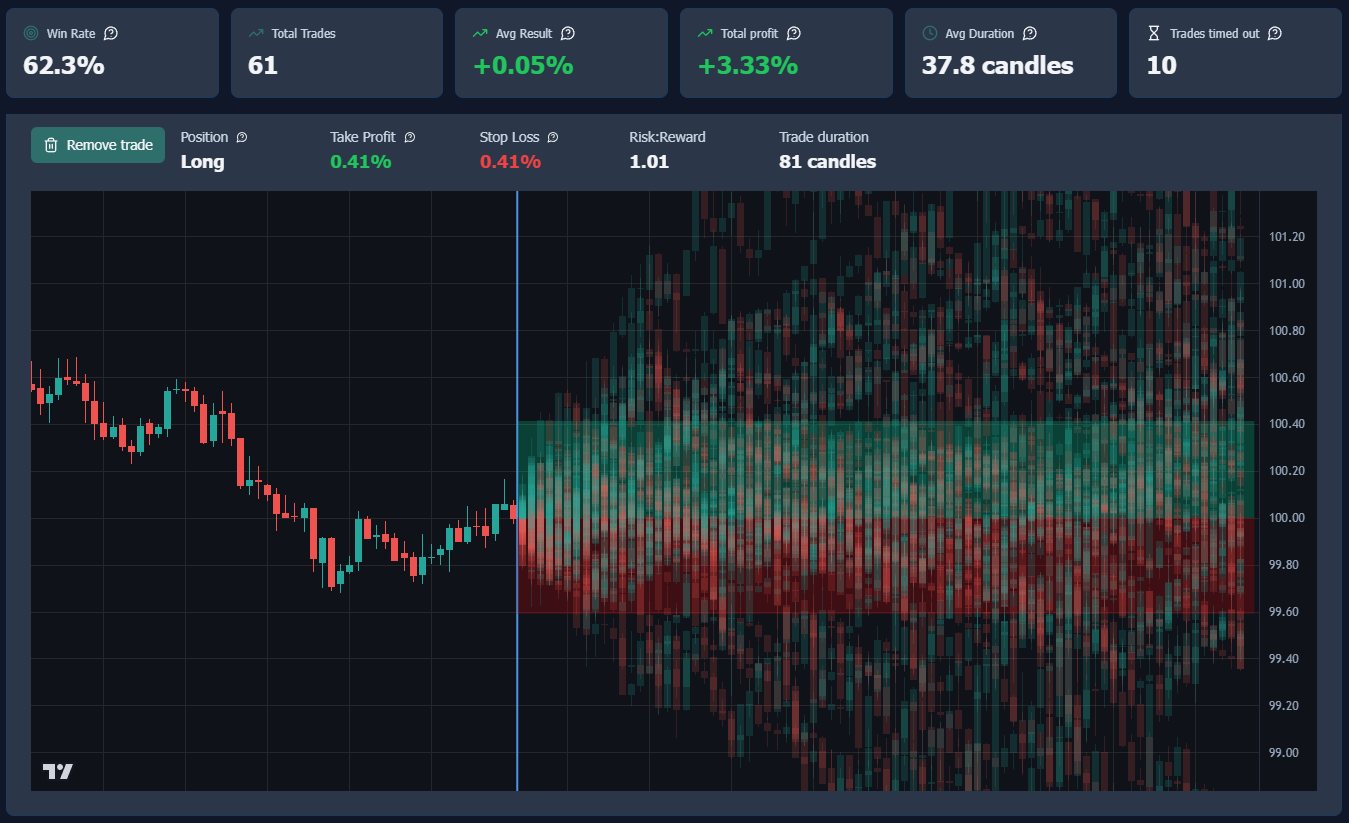
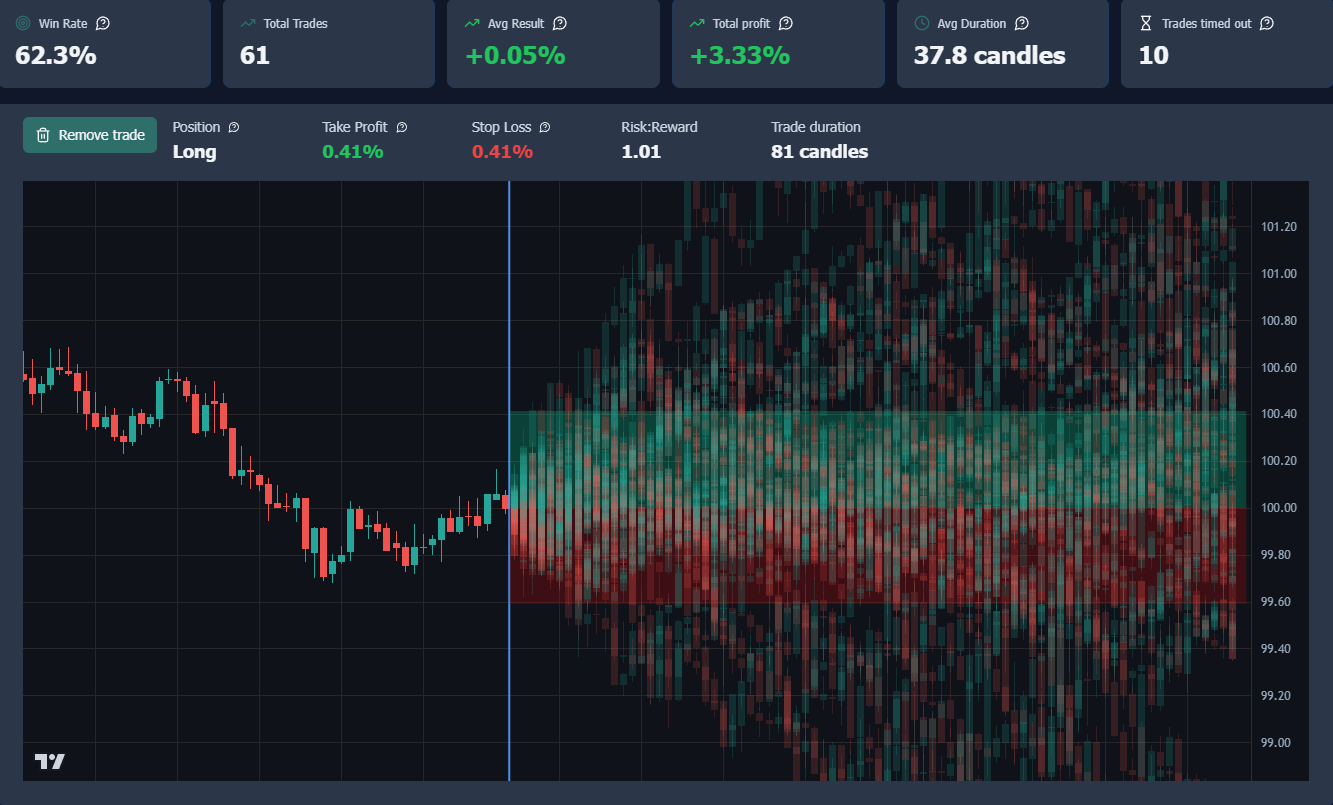
fix waitlist scroll, add animations and fix layouts and colors

Changed region(s): [[0.0, 0.0, 1.0, 1.0], [0.4614, 0.3416, 0.4921, 0.3727]]

diff --git a/src/pages/LaunchingSoon.tsx b/src/pages/LaunchingSoon.tsx
@@ -1,4 +1,4 @@
-import { useState } from "react";
+import { useEffect, useState } from "react";
 import { Button } from "@/components/ui/button";
 import { Input } from "@/components/ui/input";
 import { Checkbox } from "@/components/ui/checkbox";
@@ -79,10 +79,33 @@ const LaunchingSoon = () => {
     document.getElementById(id)?.scrollIntoView({ behavior: "smooth" });
   };
 
+  useEffect(() => {
+    const elements = document.querySelectorAll(".animate-on-scroll");
+
+    console.log("Found elements:", elements.length);
+
+    const observer = new IntersectionObserver(
+      entries => {
+        entries.forEach(entry => {
+          if (entry.isIntersecting) {
+            entry.target.classList.remove("opacity-0", "translate-y-10");
+            entry.target.classList.add("opacity-100", "translate-y-0");
+            observer.unobserve(entry.target);
+          }
+        });
+      },
+      { threshold: 0.2 }
+    );
+
+    elements.forEach(el => observer.observe(el));
+
+    return () => observer.disconnect();
+  }, []);
+
   return (
     <div className="min-h-screen bg-background">
       {/* Header */}
-      <header className="border-b border-border bg-card backdrop-blur-sm sticky top-0 z-50">
+      <header className="border-b border-accent bg-card backdrop-blur-sm sticky top-0 z-50">
         <div className="container mx-auto px-6 py-4 flex items-center justify-between">
           <div className="flex items-center gap-2">
             <div className="rounded-lg" onClick={() => scrollToSection("waitlist")}>
@@ -133,7 +156,8 @@ const LaunchingSoon = () => {
       {/* Hero Section */}
       <section
         id="waitlist"
-        className="relative flex items-center justify-center overflow-hidden py-16"
+        className="relative flex items-center justify-center overflow-hidden py-16 scroll-mt-24"
+        // className="relative flex items-center justify-center overflow-hidden py-16"
       >
         {/* Animated background elements */}
         <div className="absolute inset-0 overflow-hidden">
@@ -154,7 +178,7 @@ const LaunchingSoon = () => {
             {/* Main headline */}
             <h1 className="text-4xl md:text-6xl lg:text-7xl font-bold text-foreground leading-tight">
               Research, backtest and validate trades using{" "}
-              <span className="bg-gradient-primary bg-clip-text text-transparent">
+              <span className="bg-gradient-primary bg-clip-text text-primary">
                 Pattern Similarity Score
               </span>
             </h1>
@@ -209,7 +233,7 @@ const LaunchingSoon = () => {
                         htmlFor="emails"
                         className="text-xs text-muted-foreground cursor-pointer"
                       >
-                      I agree to receive access updates and marketing emails from Stratosphere. By joining the waitlist, you also agree to our Privacy Policy.
+                      I agree to receive access updates and marketing emails from STRATOSPHERE. By joining the waitlist, you also agree to our Privacy Policy.
                       </Label>
                     </div>
                     </div>
@@ -241,7 +265,7 @@ const LaunchingSoon = () => {
             <div className="text-center space-y-6 mb-20">
               <h2 className="text-4xl md:text-5xl lg:text-6xl font-bold text-foreground">
                 Objective, repeatable,<br />
-                <span className="bg-gradient-primary bg-clip-text text-transparent">reliable</span>
+                <span className="bg-gradient-primary bg-clip-text text-primary">reliable</span>
               </h2>
               <p className="text-xl text-muted-foreground max-w-2xl mx-auto">
                 STRATOSPHERE replaces guesswork with historical evidence.
@@ -252,8 +276,16 @@ const LaunchingSoon = () => {
             <div className="grid md:grid-cols-3 gap-12 md:gap-8">
               {/* Step 1 */}
               <div className="space-y-6">
-                <div className="aspect-video border border-primary rounded-xl hover:shadow-glow flex items-center justify-center overflow-hidden">
-                  <img
+                <div
+                //  className="aspect-video border border-primary rounded-xl hover:shadow-glow flex items-center justify-center overflow-hidden">
+                 className="
+                  aspect-video border border-primary rounded-xl hover:shadow-glow
+                  flex items-center justify-center overflow-hidden
+                  transition-all duration-700 delay-600 ease-out
+                  opacity-0 translate-y-10
+                  animate-on-scroll
+                ">  
+                <img
                     src="/features_browse.png"
                     alt="Pattern selection preview"
                     className="w-full h-full object-cover rounded-xl"
@@ -276,7 +308,15 @@ const LaunchingSoon = () => {
 
               {/* Step 2 */}
               <div className="space-y-6">
-                <div className="aspect-video  border border-primary rounded-xl hover:shadow-glow bg-card flex items-center justify-center overflow-hidden">
+                <div 
+                // className="aspect-video  border border-primary rounded-xl hover:shadow-glow bg-card flex items-center justify-center overflow-hidden">
+                    className="
+                  aspect-video border border-primary rounded-xl hover:shadow-glow
+                  flex items-center justify-center overflow-hidden
+                  transition-all duration-700 delay-400 ease-out
+                  opacity-0 translate-y-10
+                  animate-on-scroll
+                ">  
                    <img
                     src="/features_collection.png"
                     alt="Result collection preview"
@@ -300,8 +340,16 @@ const LaunchingSoon = () => {
 
               {/* Step 3 */}
               <div className="space-y-6">
-                <div className="aspect-video bg-card border border-primary rounded-xl hover:shadow-glow flex items-center justify-center overflow-hidden">
-                   <img
+                <div 
+                // className="aspect-video bg-card border border-primary rounded-xl hover:shadow-glow flex items-center justify-center overflow-hidden">
+                 className="
+                  aspect-video border border-primary rounded-xl hover:shadow-glow
+                  flex items-center justify-center overflow-hidden
+                  transition-all duration-700 delay-200 ease-out
+                  opacity-0 translate-y-10
+                  animate-on-scroll
+                ">     
+                <img
                     src="/features_outcomes.png"
                     alt="Outcomes preview"
                     className="h-full object-cover "
@@ -422,7 +470,7 @@ const LaunchingSoon = () => {
                           <div className="flex-1 h-10 bg-bullish/20 rounded-lg flex items-center px-4">
                             <span className="text-sm text-foreground">🚀 Up</span>
                           </div>
-                          <span className="text-sm text-muted-foreground w-12">52%</span>
+                          <span className="text-sm text-muted-foreground w-10">52%</span>
                         </div>
                         <div className="flex items-center gap-3">
                           <div className="flex-1 h-10 bg-bearish/20 rounded-lg flex items-center px-4">
@@ -448,22 +496,41 @@ const LaunchingSoon = () => {
                     <img
                       src="/answer_trade.png"
                       alt="Trade research"
-                      className="w-full h-full object-cover my-1 rounded-xl"
+                      className="w-full h-full object-cover my-1 rounded-xl zoom-hover transition-transform"
                     />
-                    <div className="space-y-2 mx-3">
-                        <div className="flex items-center gap-3">
-                          <div className="flex-1 h-10 bg-bullish/20 rounded-lg flex items-center px-4">
-                            <span className="text-sm text-foreground">🚀 Up</span>
-                          </div>
-                          <span className="text-sm text-muted-foreground w-10">62.3%</span>
+                    <div className="space-y-2 mx-3 py-1">
+                      {/* Up */}
+                      <div className="flex items-center gap-3">
+                        <div
+                          className="h-10 bg-bullish/20 rounded-lg flex items-center px-2 min-w-[20px]"
+                          // style={{ width: `62.3%` }}
+                          style={{ width: `100%` }}
+                        >
+                          <span className="text-sm text-foreground whitespace-nowrap">
+                            🚀 Up
+                          </span>
                         </div>
-                        <div className="flex items-center gap-3">
-                          <div className="flex-1 h-10 bg-bearish/20 rounded-lg flex items-center px-4">
-                            <span className="text-sm text-foreground">📉 Down</span>
-                          </div>
-                          <span className="text-sm text-muted-foreground w-36">37.7%</span>
-                        </div>
+                        <span className="text-sm text-muted-foreground">
+                          62.3%
+                        </span>
                       </div>
+
+                      {/* Down */}
+                      <div className="flex items-center gap-3">
+                        <div
+                          className="h-10 bg-bearish/20 rounded-lg flex items-center px-2 min-w-[20px]"
+                          // style={{ width: `37.7%` }}
+                          style={{ width: `60%` }}
+                        >
+                          <span className="text-sm text-foreground whitespace-nowrap">
+                            📉 Down
+                          </span>
+                        </div>
+                        <span className="text-sm text-muted-foreground">
+                          37.7%
+                        </span>
+                      </div>
+                    </div>
                   </div>
                 </div>
                 </div>
@@ -577,10 +644,21 @@ const LaunchingSoon = () => {
               <Button
                 size="sm"
                 onClick={() => navigate("/sandbox")}
-                className="bg-primary hover:bg-primary/90 shadow-glow text-lg px-6 py-3 h-auto"
-              >
-                Try the Similarity Sandbox
-                <ArrowRight className="w-5 h-5 ml-2" />
+                className="bg-primary hover:bg-primary/90 shadow-glow
+                  text-sm sm:text-base lg:text-xl
+                  px-4 sm:px-6 lg:px-8
+                  py-2 sm:py-3
+                  h-auto
+                  
+                  whitespace-nowrap"
+                >
+                <span className="hidden sm:inline">
+                  Try the Similarity Sandbox
+                </span>
+                <span className="sm:hidden">
+                  Try Sandbox
+                </span>
+                <ArrowRight className="w-4 h-4 sm:w-5 sm:h-5 ml-2" />
               </Button>
             </div>
 
@@ -592,8 +670,8 @@ const LaunchingSoon = () => {
       </section>
 
       {/* FAQ Section */}
-      <section id="faq" className="py-28 md:py-40">
-        <div className="container mx-auto px-6">
+      <section id="faq" className="py-28 md:py-40 bg-gradient-hero">
+        <div className="container mx-auto px-6 mb-60">
           <div className="max-w-3xl mx-auto">
             <h2 className="text-3xl md:text-4xl lg:text-5xl font-bold text-foreground text-center mb-6">
               Questions?
@@ -675,11 +753,9 @@ const LaunchingSoon = () => {
             </Accordion>
           </div>
         </div>
-      </section>
 
       {/* Final CTA */}
-      <section className="py-28 md:py-40 bg-gradient-hero">        
-        <div className="container mx-auto px-6">
+        <div className="container mx-auto px-6 mb-40">
           <div className="max-w-2xl mx-auto text-center space-y-8">
             <h2 className="text-3xl md:text-4xl lg:text-5xl font-bold text-foreground">
               Stop guessing.<br />
@@ -696,10 +772,6 @@ const LaunchingSoon = () => {
               <Mail className="w-5 h-5 mr-2" />
               Join the Waitlist
             </Button>
-            <div className="relative w-full aspect-square max-w-lg">
-              <div className="absolute top-0 left-0 w-[30%] h-[30%] bg-primary/60 rounded-full blur-3xl animate-pulse" />
-              <div className="absolute bottom-0 right-0 w-[30%] h-[30%] bg-primary/30 rounded-full blur-2xl animate-pulse delay-1000" />
-            </div>
           </div>
         </div>
       </section>

diff --git a/src/index.css b/src/index.css
@@ -71,3 +71,9 @@ All colors MUST be HSL.
     @apply bg-background text-foreground;
   }
 }
+
+@media (hover: hover) {
+  .zoom-hover:hover {
+    transform: scale(1.2);
+  }
+}
